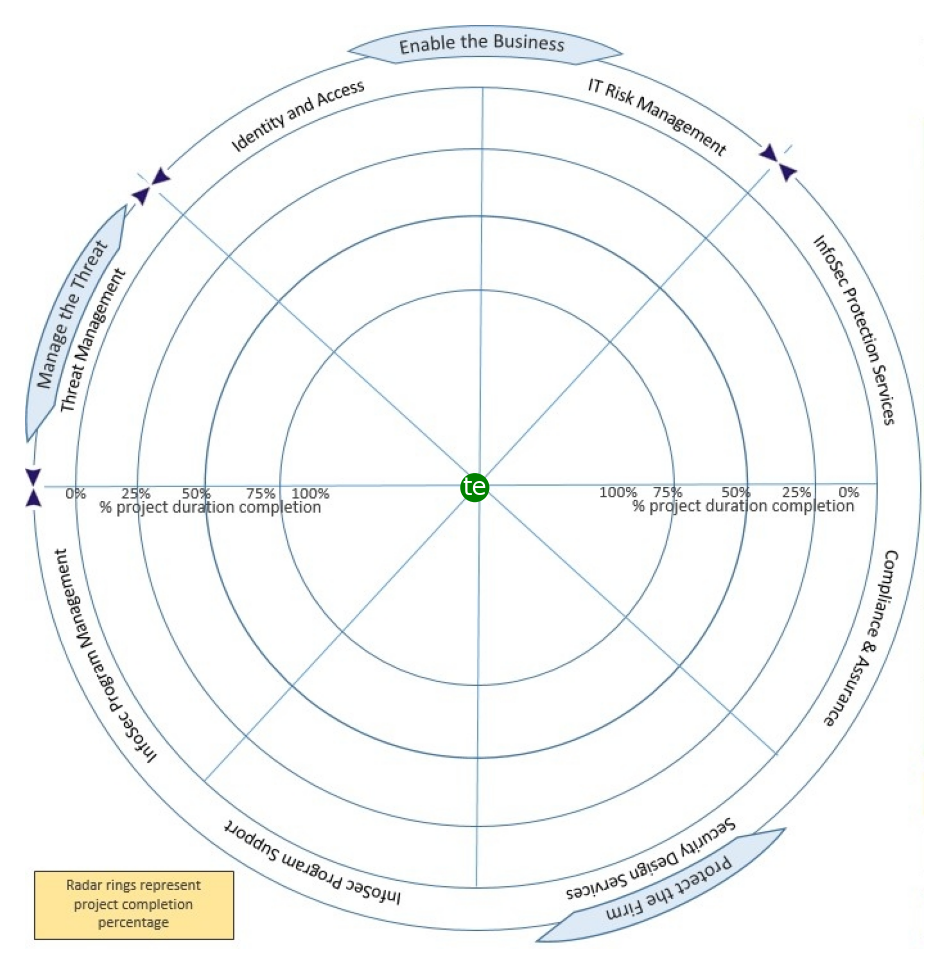
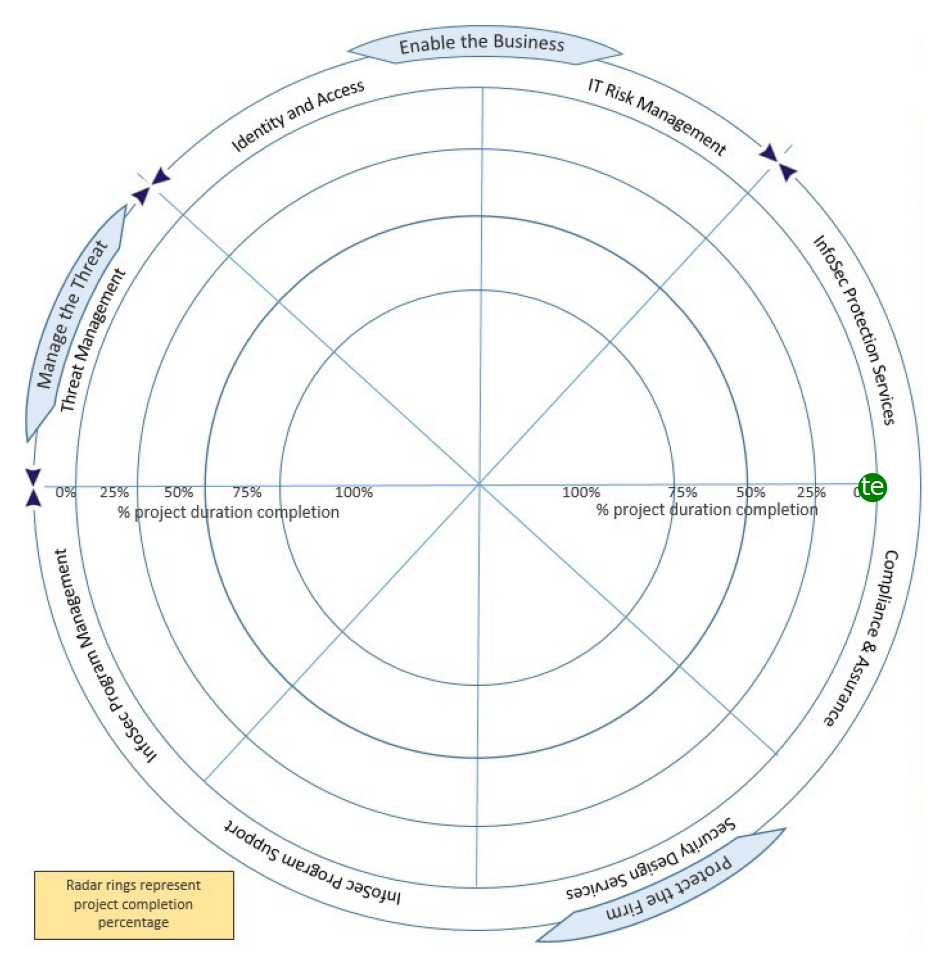
added a bunch of stuff, still not working

Changed region(s): [[0.5812, 0.4928, 0.9483, 0.5544], [0.0612, 0.4928, 0.3977, 0.5544], [0.4895, 0.462, 0.52, 0.5236]]

diff --git a/main.py b/main.py
@@ -1,3 +1,4 @@
+from operator import ge
 import openpyxl
 import pandas as pd
 import matplotlib.pyplot as plt
@@ -111,7 +112,10 @@ def generate_excel(radar_ids: list[str], names: list[list[str]]) -> None:
                     ws[c + str(i)].font = Font(color=colors.Color("ff0000"))
 
     wb.save("test.xlsx")
-    
+
+def calculate_radius(percent: float) -> float:
+    return (310 * (1 - percent))
+
 def main() -> None:
     df = pd.read_excel(DATA_PATH)
     df = df.dropna(how="all", axis=1)
@@ -120,14 +124,29 @@ def main() -> None:
     df = df[1:]
     df = df.reset_index()
     df = df.drop("index", axis=1)
+    names = sort_project_status(df)
+    ids = create_radar_ids()
+    # generate_excel(create_radar_ids(), names)
+    idx = 0
+    for i in range(len(names)):
+        for name in names[i]:
+            row_num = 0
+            for j in range(len(df["Project Name"])):
+                if df["Project Name"][j] == name:
+                    row_num = j
+                    break
+            r = calculate_radius(df["%Project Duration Completed2"][row_num])
+            match df["Service Category"][row_num]:
+                case "InfoSec" 
+            idx += 1
 
     fig, ax = plt.subplots(frameon=False)
 
     ax.imshow(mpimg.imread(IMG_PATH), aspect="auto")
 
-    circle = plt.Circle((IMG_WIDTH//2, IMG_HEIGHT//2), 10, color="green", fill=True)
+    circle = plt.Circle((660, IMG_HEIGHT//2), 10, color="green", fill=True)
     ax.add_artist(circle)
-    ax.text(IMG_WIDTH//2, IMG_HEIGHT//2, "te", ha="center", va="center", fontsize=7, color="white")
+    ax.text(660, IMG_HEIGHT//2, "te", ha="center", va="center", fontsize=7, color="white")
     ax.set_aspect("equal", adjustable="box")
     ax.set_axis_off()
 
